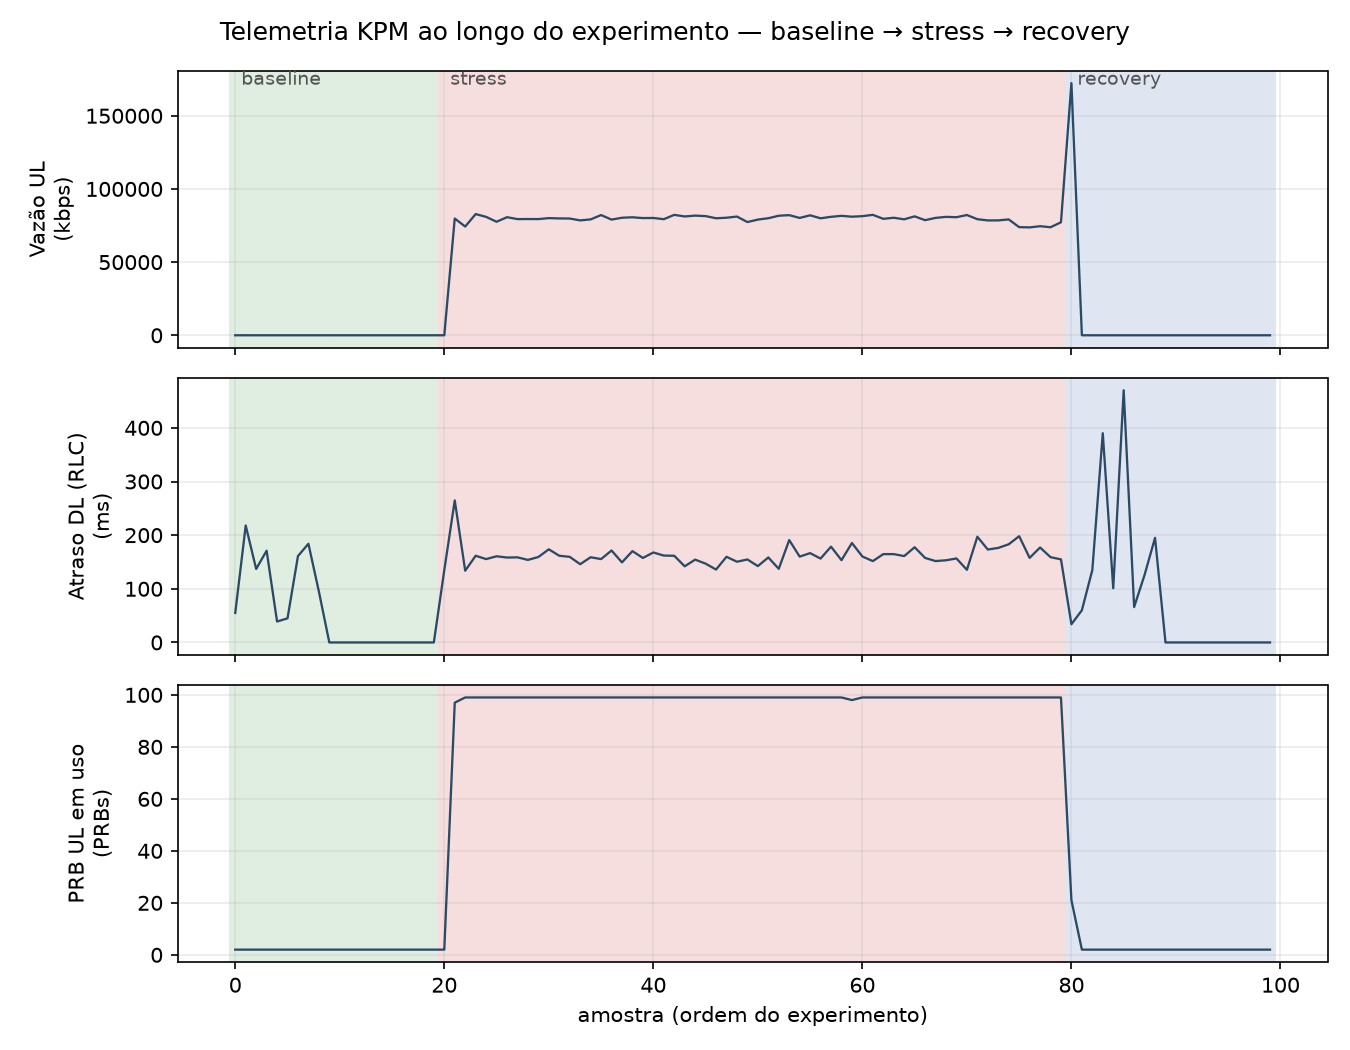
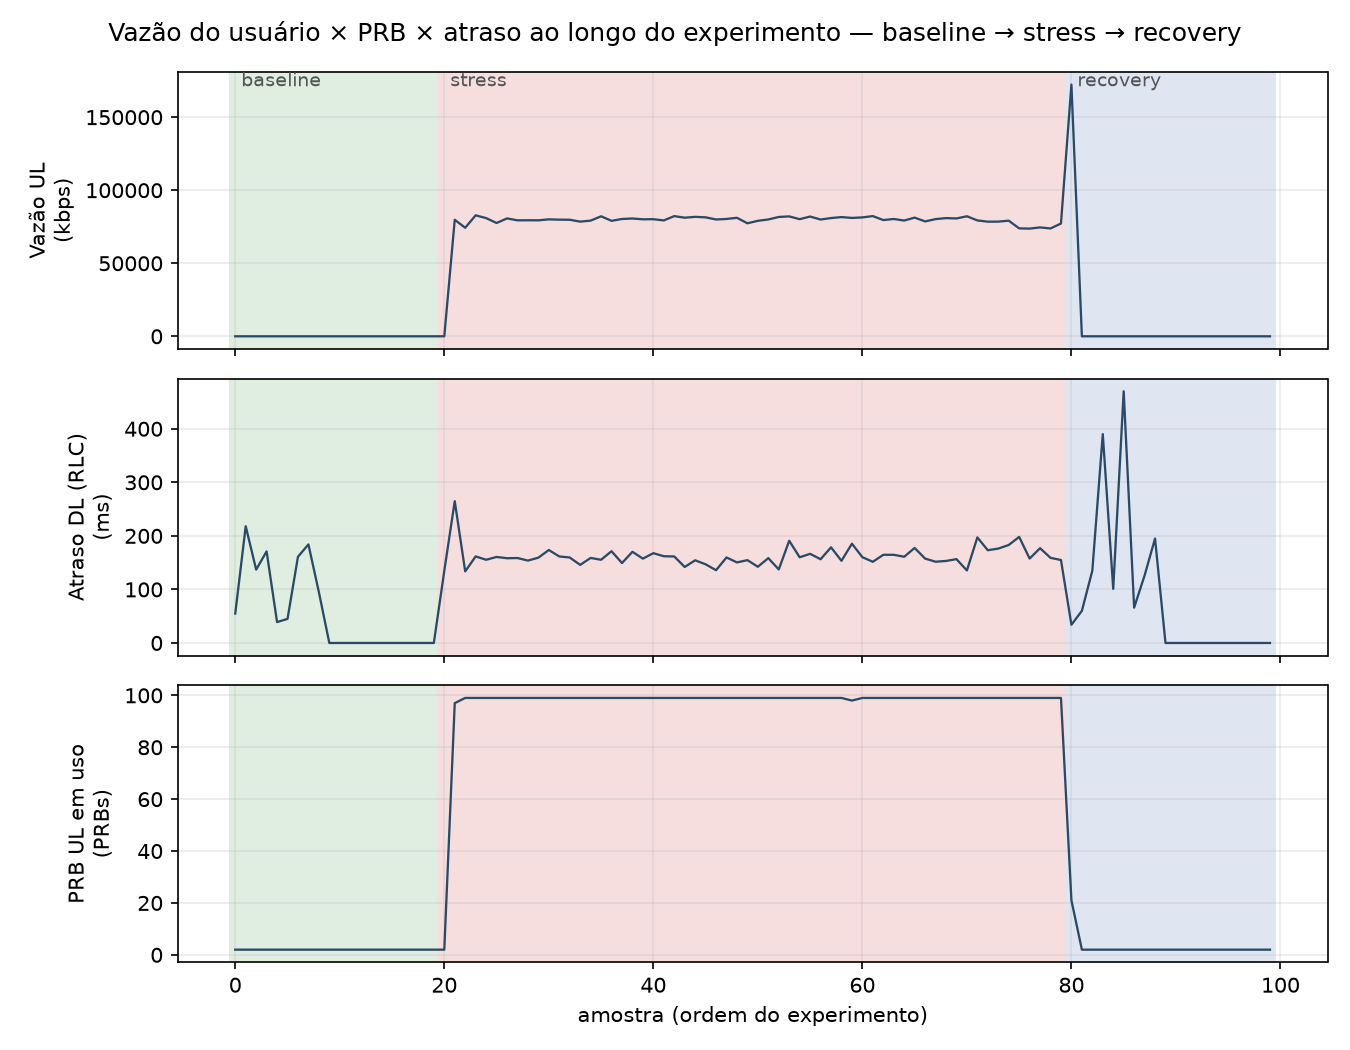
fix(projeto): CP1 corrigido pro tema certo do Grupo 6 — Vazão do usuário (UE-TP)
O Grupo 6 (Henrique Carmine, Kelvin de Lima Gabriel, Klinger Carneiro Júnior) tem
o Tema 1 (Vazão do usuário), não Economia de energia (esse é o Grupo 7) — "Grupo 6"
≠ "Tema 6". Indicadores refeitos: vazão UL média/p95 por fase + PRB UL médio por
fase; a Consulta 2 vira correlação (vazão×PRB=0,92 forte, que se sustenta dentro do
stress ~0,98; vazão×atraso ≈0 dentro da fase — o 0,48 global é só contraste entre
fases). Notas de qualidade: unidades por convenção KPM (não declaradas), ingested_at
é carimbo de ingestão (não a medição), média do recovery engana (1 pico residual).
Figura 2 agora é a dispersão vazão×PRB por fase. Mentor Jonas + integrantes no README.

diff --git a/pdfs/03-dados-telecom/projeto/eda_cp1.py b/pdfs/03-dados-telecom/projeto/eda_cp1.py
@@ -2,12 +2,15 @@
 """
 Checkpoint 1 (Aula 04 · 25/08) — Exploração dos dados (EDA) do Projeto Integrador.
 
+Grupo 6 · Tema 1 — **Vazão do usuário (UE-TP)**.
+Pergunta: a vazão do UE sobe/desce junto com o uso de PRB e com o atraso?
+
 Parte do mini-lake gerado por etl/build_lake.py (zona silver: data/silver/kpm.sqlite)
 e produz, conforme o briefing:
   - relatório de QUALIDADE (nulos, duplicatas, timezone, gaps, fases);
-  - 2 CONSULTAS (SQL sobre a zona silver);
+  - 2 CONSULTAS (agregados por fase; correlação vazão × PRB × atraso);
   - 2 VISUALIZAÇÕES (figures/);
-  - 2 INDICADORES PRELIMINARES (recorte do tema — provável G6: economia de energia).
+  - os 2 INDICADORES do tema (vazão UL média/p95 por fase; PRB UL médio por fase).
 
 Uso:  python3 eda_cp1.py     (rode etl/build_lake.py antes)
 Dados: telemetria KPM sintética (RFSIM) do lab oai-cn-gnb-nonrt-nearrt; sem dados
@@ -32,10 +35,9 @@ FIG = os.path.join(HERE, "figures")
 os.makedirs(FIG, exist_ok=True)
 
 PHASES = ["baseline", "stress", "recovery"]          # ordem cronológica do experimento
-METRICS = {"thp_ul": ("Vazão UL", "kbps"),           # DRB.UEThpUl
+METRICS = {"thp_ul": ("Vazão UL", "kbps"),           # DRB.UEThpUl  (alvo do tema)
            "delay_dl": ("Atraso DL (RLC)", "ms"),    # DRB.RlcSduDelayDl
            "prb_ul": ("PRB UL em uso", "PRBs")}      # RRU.PrbTotUl
-PRB_BAIXA = 10.0   # limiar de "baixa carga": baseline/recovery ~2-3 PRB, stress ~97 → 10 separa com folga
 
 
 def carregar() -> pd.DataFrame:
@@ -51,104 +53,116 @@ def qualidade(df: pd.DataFrame) -> None:
     print(f"  amostras: {len(df)}  ·  run_id(s): {df.run_id.nunique()}  "
           f"({df.run_id.iloc[0]})")
     print(f"  por fase: {dict(df.phase.value_counts().reindex(PHASES))}")
-    # nulos
     nul = df[list(METRICS)].isna().sum().to_dict()
     print(f"  nulos por métrica: {nul}  -> {'OK, sem nulos' if sum(nul.values())==0 else 'ATENÇÃO'}")
-    # duplicatas na chave
     dup = df.duplicated(["run_id", "phase", "sample_index"]).sum()
     print(f"  duplicatas na chave (run_id,phase,sample_index): {dup}  "
           f"-> {'OK' if dup==0 else 'ATENÇÃO'}")
-    # timezone
     off = df.ingested_at.str[-6:].unique()
-    print(f"  timezone (offset de ingested_at): {list(off)}  -> tudo UTC" )
-    # gaps no sample_index por fase
+    print(f"  timezone (offset de ingested_at): {list(off)}  -> tudo UTC")
+    # Nota temporal: ingested_at é carimbo de ingestão em lote, não a hora da medição
+    print(f"  ingested_at: {df.ingested_at.nunique()} valor(es) distinto(s) -> carimbo de "
+          "ingestão em lote (UTC); a hora da medição não vem por amostra (experimento de "
+          "jun/25, ver source_path). Ordem temporal = sample_index.")
+    # Nota de unidade: o artefato não declara; adotamos a convenção KPM O-RAN
+    print("  unidades (convenção KPM, não declaradas no artefato): "
+          "thp_ul=kbps · delay_dl=ms · prb_ul=contagem de PRBs.")
     print("  gaps no sample_index por fase:")
     for ph in PHASES:
         idx = df[df.phase == ph].sample_index.to_numpy()
-        esperado = np.arange(idx.min(), idx.max() + 1)
-        faltando = sorted(set(esperado) - set(idx))
+        faltando = sorted(set(np.arange(idx.min(), idx.max() + 1)) - set(idx))
         print(f"    {ph:<9} {idx.min()}..{idx.max()} (n={len(idx)})  "
               f"gaps: {faltando if faltando else 'nenhum'}")
-    # sanidade de valores (a "anomalia" do recovery: média >> p95 = distribuição torta)
-    print("  sanidade de valores (média × p95 da vazão por fase):")
+    print("  sanidade (média × p95 da vazão por fase):")
     for ph in PHASES:
         s = df.loc[df.phase == ph, "thp_ul"]
-        flag = " <-- média >> p95 (distribuição assimétrica: poucos picos altos)" \
-               if s.mean() > s.quantile(.95) * 1.5 else ""
-        print(f"    {ph:<9} média={s.mean():.1f}  p95={s.quantile(.95):.1f}{flag}")
+        flag = " <-- média puxada por pico(s) residual(is); usar mediana/p95 e recorte por fase" \
+               if s.mean() > s.median() * 3 else ""
+        print(f"    {ph:<9} média={s.mean():.1f}  mediana={s.median():.1f}  p95={s.quantile(.95):.1f}{flag}")
 
 
 def consultas(df: pd.DataFrame) -> None:
     con = sqlite3.connect(DB)
     print("\n== CONSULTA 1 — agregados por fase (SQL) ==")
     q1 = """SELECT phase, COUNT(*) n,
-                   ROUND(AVG(thp_ul),1) thp_med, ROUND(AVG(delay_dl),1) delay_med,
-                   ROUND(AVG(prb_ul),1) prb_med
+                   ROUND(AVG(thp_ul),1) thp_med,
+                   ROUND(AVG(prb_ul),1) prb_med, ROUND(AVG(delay_dl),1) delay_med
             FROM kpm GROUP BY phase"""
     print(pd.read_sql_query(q1, con).set_index("phase").reindex(PHASES).to_string())
-
-    print("\n== CONSULTA 2 — janelas de BAIXA CARGA (prb_ul <= %g) por fase (SQL) ==" % PRB_BAIXA)
-    q2 = f"""SELECT phase, COUNT(*) n,
-                    SUM(CASE WHEN prb_ul <= {PRB_BAIXA} THEN 1 ELSE 0 END) baixa_carga,
-                    ROUND(100.0*SUM(CASE WHEN prb_ul <= {PRB_BAIXA} THEN 1 ELSE 0 END)/COUNT(*),1) pct_baixa
-             FROM kpm GROUP BY phase"""
-    print(pd.read_sql_query(q2, con).set_index("phase").reindex(PHASES).to_string())
     con.close()
+
+    print("\n== CONSULTA 2 — a vazão anda junto com PRB e atraso? (correlação de Pearson) ==")
+    corr = df[["thp_ul", "prb_ul", "delay_dl"]].corr().round(3)
+    print(corr.to_string())
+    print(f"  -> vazão×PRB = {corr.loc['thp_ul','prb_ul']:.3f}  ·  "
+          f"vazão×atraso = {corr.loc['thp_ul','delay_dl']:.3f}")
+    # Nota metodológica: a correlação global mistura as fases; o correto é olhar
+    # dentro de cada fase (evita ler contraste idle × carga como se fosse dinâmica).
+    print("  correlação DENTRO de cada fase (sem misturar idle × carga):")
+    for ph in PHASES:
+        s = df[df.phase == ph]
+        cp = s.thp_ul.corr(s.prb_ul)
+        cd = s.thp_ul.corr(s.delay_dl)
+        nota = "  (PRB constante nesta fase -> correlação indefinida)" if s.prb_ul.std() == 0 else ""
+        print(f"    {ph:<9} vazão×PRB={cp:.3f}  vazão×atraso={cd:.3f}{nota}")
+    print("  Leitura: vazão×PRB se mantém dentro do stress (~0,98) = relação real;")
+    print("  vazão×atraso ~0 dentro de cada fase (o 0,48 global vem só do contraste entre fases).")
 
 
 def indicadores(df: pd.DataFrame) -> dict:
-    """2 indicadores preliminares — recorte do tema (provável G6: economia de energia)."""
-    baixa = df["prb_ul"] <= PRB_BAIXA
+    """Os 2 indicadores do Tema 1 (Vazão do usuário)."""
+    g = df.groupby("phase", observed=True)
     ind = {
-        "frac_baixa_carga_pct": round(100.0 * baixa.mean(), 1),
-        "thp_media_baixa_carga_kbps": round(df.loc[baixa, "thp_ul"].mean(), 2),
-        "delay_medio_baixa_carga_ms": round(df.loc[baixa, "delay_dl"].mean(), 1),
-        "limiar_prb": PRB_BAIXA,
+        "vazao_ul": {ph: {"media": round(g.get_group(ph).thp_ul.mean(), 2),
+                          "p95": round(g.get_group(ph).thp_ul.quantile(.95), 2)}
+                     for ph in PHASES},
+        "prb_ul_medio": {ph: round(g.get_group(ph).prb_ul.mean(), 1) for ph in PHASES},
     }
-    print("\n== INDICADORES PRELIMINARES (recorte G6 · economia de energia) ==")
-    print(f"  (1) Fração do tempo em baixa carga (prb_ul <= {PRB_BAIXA}): "
-          f"{ind['frac_baixa_carga_pct']}% das amostras")
-    print(f"  (2) Nessas janelas — vazão média: {ind['thp_media_baixa_carga_kbps']} kbps · "
-          f"atraso médio: {ind['delay_medio_baixa_carga_ms']} ms")
+    print("\n== INDICADORES DO TEMA (Grupo 6 · Vazão do usuário) ==")
+    print("  (1) Vazão UL média / p95 por fase (kbps):")
+    for ph in PHASES:
+        print(f"        {ph:<9} média={ind['vazao_ul'][ph]['media']:>10}  p95={ind['vazao_ul'][ph]['p95']:>10}")
+    print("  (2) Utilização média de PRB UL por fase (PRBs):")
+    for ph in PHASES:
+        print(f"        {ph:<9} {ind['prb_ul_medio'][ph]}")
     return ind
 
 
 def figuras(df: pd.DataFrame) -> None:
     ordem = df.reset_index(drop=True)          # já ordenado baseline→stress→recovery
-    bordas = ordem.groupby("phase", observed=True).apply(lambda g: g.index.min()).reindex(PHASES)
     cores = {"baseline": "#dfeee0", "stress": "#f6dede", "recovery": "#dfe6f2"}
 
     # FIGURA 1 — série temporal das 3 métricas com faixas de fase
     fig, axs = plt.subplots(3, 1, figsize=(9, 7), sharex=True)
     for ax, (col, (lab, unit)) in zip(axs, METRICS.items()):
         ax.plot(ordem.index, ordem[col], lw=1.1, color="#2b4a66")
-        for ph in PHASES:                       # faixas coloridas por fase
+        for ph in PHASES:
             sub = ordem[ordem.phase == ph]
-            ax.axvspan(sub.index.min() - .5, sub.index.max() + .5,
-                       color=cores[ph], zorder=0)
+            ax.axvspan(sub.index.min() - .5, sub.index.max() + .5, color=cores[ph], zorder=0)
         ax.set_ylabel(f"{lab}\n({unit})")
         ax.grid(alpha=.25)
     for ph in PHASES:
-        axs[0].text(df.reset_index().groupby("phase", observed=True).groups[ph].to_numpy().mean() if False
-                    else bordas[ph], axs[0].get_ylim()[1], f" {ph}",
-                    va="top", ha="left", fontsize=9, color="#555")
+        i0 = ordem[ordem.phase == ph].index.min()
+        axs[0].text(i0, axs[0].get_ylim()[1], f" {ph}", va="top", ha="left",
+                    fontsize=9, color="#555")
     axs[-1].set_xlabel("amostra (ordem do experimento)")
-    fig.suptitle("Telemetria KPM ao longo do experimento — baseline → stress → recovery")
+    fig.suptitle("Vazão do usuário × PRB × atraso ao longo do experimento — baseline → stress → recovery")
     fig.tight_layout()
     fig.savefig(os.path.join(FIG, "cp1_serie_temporal.png"), dpi=150)
 
-    # FIGURA 2 — distribuição por fase (boxplot) das 3 métricas
-    fig, axs = plt.subplots(1, 3, figsize=(11, 4))
-    for ax, (col, (lab, unit)) in zip(axs, METRICS.items()):
-        ax.boxplot([df.loc[df.phase == ph, col] for ph in PHASES],
-                   tick_labels=PHASES, showfliers=True)
-        ax.set_title(lab)
-        ax.set_ylabel(unit)
-        ax.grid(alpha=.25, axis="y")
-    fig.suptitle("Distribuição das métricas por fase (o salto de carga fica evidente)")
+    # FIGURA 2 — vazão UL × PRB UL (dispersão, colorida por fase): a relação do tema
+    fig, ax = plt.subplots(figsize=(7.2, 5))
+    for ph, c in [("baseline", "#2e7d32"), ("stress", "#c62828"), ("recovery", "#1565c0")]:
+        sub = df[df.phase == ph]
+        ax.scatter(sub.prb_ul, sub.thp_ul, s=28, alpha=.7, label=ph, color=c, edgecolors="none")
+    ax.set_xlabel("PRB UL em uso (PRBs)")
+    ax.set_ylabel("Vazão UL (kbps)")
+    ax.set_title("Vazão do usuário sobe com o uso de PRB (por fase)")
+    ax.grid(alpha=.25)
+    ax.legend(title="fase")
     fig.tight_layout()
-    fig.savefig(os.path.join(FIG, "cp1_dist_por_fase.png"), dpi=150)
-    print(f"\nFiguras salvas em {FIG}/  (cp1_serie_temporal.png, cp1_dist_por_fase.png)")
+    fig.savefig(os.path.join(FIG, "cp1_vazao_x_prb.png"), dpi=150)
+    print(f"\nFiguras salvas em {FIG}/  (cp1_serie_temporal.png, cp1_vazao_x_prb.png)")
 
 
 if __name__ == "__main__":

diff --git a/pdfs/03-dados-telecom/projeto/kpis/kpis.md b/pdfs/03-dados-telecom/projeto/kpis/kpis.md
@@ -1,46 +1,78 @@
-# Indicadores (KPIs/KQIs) — Projeto Integrador
+# Indicadores (KPIs/KQIs) — Projeto Integrador · Grupo 6
 
-**Tema (provável): G6 — Economia de energia (só intenção).** _A confirmar com o
-grupo._ Os dois indicadores abaixo seguem o card do G6 (fração de baixa carga +
-vazão/atraso nessas janelas). Se o tema for outro (G1–G5/G7), trocam-se as
-fórmulas mantendo o mesmo pipeline.
+**Tema:** Grupo 6 → **Tema 1 — Vazão do usuário (UE-TP)**.
+**Integrantes:** Henrique Carmine · Kelvin de Lima Gabriel · Klinger Carneiro Júnior.
 
-> Estado no **Checkpoint 1 (25/08)**: indicadores **preliminares** já calculados
-> (`eda_cp1.py`). No Checkpoint 2 (27/08) eles ficam formais (fórmula fechada,
-> unidade, granularidade) e ligados às visualizações.
+**Pergunta do grupo:** a vazão do UE (`DRB.UEThpUl`) sobe/desce **junto** com o uso
+de PRB (`RRU.PrbTotUl`) e com o atraso (`DRB.RlcSduDelayDl`)?
+
+> Estado no **Checkpoint 1 (25/08)**: indicadores calculados sobre os dados
+> (`eda_cp1.py`). No CP2/CP final ganham a recomendação/A1 e a análise fecha.
 
 ## Fonte comum
 
 Zona **silver** do mini-lake — `data/silver/kpm.sqlite`, tabela `kpm`
-(`thp_ul` = DRB.UEThpUl · `delay_dl` = DRB.RlcSduDelayDl · `prb_ul` = RRU.PrbTotUl),
-100 amostras a 1 medição/amostra, fases baseline(20)/stress(60)/recovery(20).
-Telemetria sintética RFSIM (sem dados pessoais).
+(`thp_ul`=DRB.UEThpUl · `prb_ul`=RRU.PrbTotUl · `delay_dl`=DRB.RlcSduDelayDl),
+100 amostras, fases baseline(20)/stress(60)/recovery(20). Telemetria sintética
+RFSIM do lab `oai-cn-gnb-nonrt-nearrt` — sem dados pessoais.
 
-## Indicador 1 — Fração do tempo em baixa carga
+## Indicador 1 — Vazão UL por fase
 
-- **Fórmula:** `100 · (nº de amostras com prb_ul ≤ L) / (nº total de amostras)`
-- **Limiar `L` = 10 PRBs** — justificado pelos dados: baseline/recovery operam com
-  ~2–3 PRBs e o stress com ~97; `L=10` separa "idle/baixa" de "carga" com folga.
-- **Unidade:** % de amostras (proxy de % do tempo, amostragem regular).
-- **Granularidade:** global e por fase (`GROUP BY phase`).
-- **Valor (CP1):** **40,0%** global · baseline 100% · stress 1,7% · recovery 95%.
-- **Lê como:** quanto do experimento a rádio esteve ociosa o bastante para
-  *cogitar* economia de energia (janela candidata a uma política A1 de sleep).
+- **Fórmula:** `média(thp_ul)` e `p95(thp_ul)` agrupando por `phase`.
+- **Unidade:** kbps · **Granularidade:** por fase (`GROUP BY phase`).
+- **Valor (CP1):**
 
-## Indicador 2 — Desempenho nas janelas de baixa carga
+  | fase | vazão média | vazão p95 |
+  |------|------------:|----------:|
+  | baseline | 3,7 | 3,8 |
+  | stress | 78 383,8 | 82 189,5 |
+  | recovery | 8 619,3 (mediana **3,7**) | 8 619,4 |
 
-- **Fórmula:** `média(thp_ul | prb_ul ≤ L)` e `média(delay_dl | prb_ul ≤ L)`
-- **Unidade:** vazão em kbps · atraso em ms.
-- **Granularidade:** global (e por fase, se útil).
-- **Valor (CP1):** vazão média **≈ 4,0 kbps** · atraso médio **≈ 69,6 ms** nas
-  janelas de baixa carga.
-- **Lê como:** confirma que, quando a carga é baixa, o serviço segue leve
-  (vazão baixa, atraso contido) — ou seja, uma eventual economia de energia
-  nessas janelas **não** sacrificaria uma demanda alta.
+- **Lê como:** a vazão do usuário salta ~4 → ~78 mil na carga e volta ao piso no
+  recovery. A **média do recovery engana** (puxada por 1 pico residual) — a
+  **mediana (3,7)** mostra que o usuário já voltou ao idle.
 
-## O que os indicadores NÃO provam
+## Indicador 2 — Utilização de PRB UL por fase
 
-- Não medem **energia** de verdade — o lab **não** controla potência de RU; a
-  economia é **intenção simulada** (política A1 em dry-run), não atuação física.
-- 1 `run_id`, **poucos UEs** (RFSIM): estatística didática, não de campus real.
-- `delay_dl` é **proxy** de qualidade — não há MOS de aplicativo.
+- **Fórmula:** `média(prb_ul)` agrupando por `phase`.
+- **Unidade:** PRBs · **Granularidade:** por fase.
+- **Valor (CP1):** baseline **2,0** · stress **97,3** · recovery **3,0**.
+- **Lê como:** o recurso de rádio segue a mesma forma da vazão (idle → saturado → idle).
+
+## Relação entre os indicadores (a resposta do tema)
+
+Correlação de Pearson **global** (100 amostras): vazão × PRB = **0,924** ·
+vazão × atraso = 0,484. **Nota: a correlação global mistura as fases**
+(idle × carga). Para responder direito, olhamos **dentro** de cada fase:
+
+| fase | vazão × PRB | vazão × atraso |
+|------|:-----------:|:--------------:|
+| baseline | — (PRB constante = 2) | 0,11 |
+| stress | **0,979** | 0,16 |
+| recovery | 1,00 | −0,08 |
+
+**Conclusão honesta:** a vazão **acompanha o PRB de verdade** — a relação se
+mantém mesmo **dentro** do stress (0,98). Já vazão × atraso é **~0 dentro de cada
+fase**: o 0,48 global é **confundimento** — as duas só sobem juntas *entre* fases,
+não porque uma puxa a outra. Dizer "a vazão anda com o atraso" seria uma leitura
+**falsa**. Ver `figures/cp1_vazao_x_prb.png`.
+
+## Recomendação (dry-run — a fechar no CP final)
+
+Se a vazão **cair** enquanto o **PRB estiver alto** (rádio cheio mas usuário mal
+servido), propor priorização/alívio de carga em **política A1 simulada**
+(sem atuação física na RAN).
+
+## Limitações e o que os indicadores NÃO provam
+
+- **Correlação por fase:** vazão × atraso "0,48" vem do **contraste entre fases**
+  (dentro da fase é ~0). Só vazão × PRB é relação que se sustenta dentro da fase.
+- **Unidades não declaradas** no artefato — kbps/ms/PRBs são **convenção KPM
+  O-RAN** assumida por nós, não vêm no dado.
+- **`ingested_at` não é a hora da medição:** é carimbo de **ingestão em lote**
+  (04/08 UTC); o experimento é de jun/25 (`source_path`). A ordem temporal é o
+  `sample_index` — não há relógio de medição por amostra.
+- A **média** do recovery engana (1 pico residual) — reportamos também mediana/p95.
+- **1 `run_id`**, **poucos UEs** (RFSIM): estatística didática, não de campus real.
+- `delay_dl` é **proxy** de qualidade — não há MOS de aplicativo; vazão é sintética
+  do RFSIM, não medida de rede em produção.

diff --git a/pdfs/03-dados-telecom/projeto/README.md b/pdfs/03-dados-telecom/projeto/README.md
@@ -5,9 +5,11 @@ Pipeline analítico **reproduzível** sobre telemetria RAN do lab
 [briefing oficial](../../../external/cesar-school-repo/data/docs/briefing-projeto.md)
 e os [temas por grupo](../../../external/cesar-school-repo/data/docs/temas-grupos.md).
 
-**Tema do grupo:** **G6 — Economia de energia** (só intenção) — _provável,
-a confirmar com o grupo_. Card do tema em
-[`temas-grupos.md`](../../../external/cesar-school-repo/data/docs/temas-grupos.md).
+**Grupo 6** · **Tema 1 — Vazão do usuário (UE-TP)**.
+**Integrantes:** Henrique Carmine · Kelvin de Lima Gabriel · Klinger Carneiro Júnior.
+**Mentor:** Prof. Dr. Jonas Augusto Kunzler (`jak@cesar.school`).
+**Pergunta:** a vazão do UE sobe/desce **junto** com o uso de PRB e com o atraso?
+Card do tema em [`temas-grupos.md`](../../../external/cesar-school-repo/data/docs/temas-grupos.md).
 
 ## Fonte de dados (trilha offline — a que vale nota)
 
@@ -51,19 +53,23 @@ Reprodução: `python3 etl/build_lake.py && python3 eda_cp1.py`
   sozinha engana).
 - **Consulta 1 — agregados por fase:** baseline PRB≈2 · stress PRB≈97 ·
   recovery PRB≈3 → o salto de carga do stress é nítido nas 3 métricas.
-- **Consulta 2 — baixa carga (`prb_ul ≤ 10`):** baseline 100% · stress 1,7% ·
-  recovery 95% das amostras.
-- **Visualizações** (`figures/`): `cp1_serie_temporal.png` (as 3 métricas ao longo
-  do experimento, faixas por fase) e `cp1_dist_por_fase.png` (boxplots por fase).
-- **Indicadores preliminares** (recorte G6): **40%** do tempo em baixa carga;
-  nessas janelas, vazão ≈ 4 kbps e atraso ≈ 70 ms — fórmulas em
-  [`kpis/kpis.md`](kpis/kpis.md).
+- **Consulta 2 — a vazão anda junto com PRB e atraso? (correlação de Pearson):**
+  **vazão × PRB = 0,924** · vazão × atraso = 0,484. Olhando **dentro de cada fase**,
+  vazão × PRB se mantém (stress 0,98) e vazão × atraso ≈ 0 — o 0,48 global é só o
+  contraste idle × carga entre fases.
+- **Visualizações** (`figures/`): `cp1_serie_temporal.png` (vazão × PRB × atraso ao
+  longo do experimento, faixas por fase) e `cp1_vazao_x_prb.png` (dispersão
+  vazão × PRB por fase — a relação do tema).
+- **Indicadores do tema** (`kpis/kpis.md`): (1) **vazão UL média/p95 por fase**
+  (baseline 3,7 · stress 78 384 · recovery 8 619 — mediana **3,7**) e (2) **PRB UL
+  médio por fase** (2 · 97 · 3). Conclusão: a vazão do usuário **acompanha de perto
+  o uso de PRB** (rádio cheio → vazão alta).
 
 ## Entregáveis (briefing) — checklist
 
 - [x] README com origem dos dados, reprodução e ética/licença (este arquivo)
 - [x] Scripts de ETL e análise (`etl/build_lake.py`, `eda_cp1.py`)
-- [~] **≥ 2 KPIs/KQIs** — **preliminares** feitos (`kpis/kpis.md`); formalizar no CP2
+- [x] **2 KPIs/KQIs do tema** — fórmula, unidade, granularidade (`kpis/kpis.md`)
 - [x] Visualizações com insights acionáveis (`figures/` — 2 plots do CP1)
 - [ ] Recomendação operacional **ou** política A1 em dry-run (CP técnico final)
 - [ ] Seção de **limitações** (RFSIM × rede real, poucos UEs, viés, privacidade)
